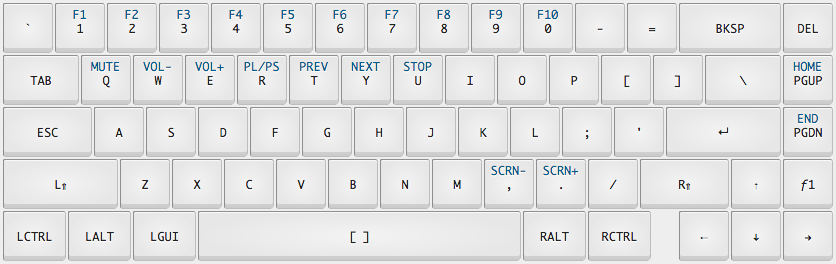
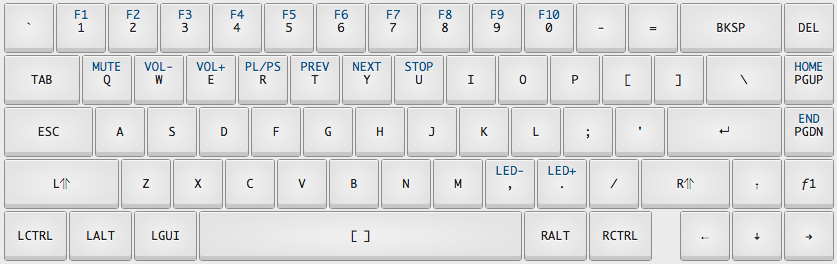
Use LED controls instead of screen brightness

diff --git a/aria/log/kll_defs.h b/aria/log/kll_defs.h
@@ -15,7 +15,7 @@
  */
 
 // This file was generated by the kll compiler, DO NOT EDIT.
-// Generation Date:    2016-12-28
+// Generation Date:    2017-01-05
 // KLL Backend:        kiibohd
 // KLL Git Rev:        1a078b2b940709bc3c429c952d2f0d842927394f
 // KLL Git Changes:    None
@@ -103,10 +103,7 @@ typedef enum CapabilityIndex {
 
 
 
-#define enableVirtualSerialPort_define 1
-#define enableKeyboard_define 1
-#define flashModeEnabled_define 0
-#define enableJoystick_define 0
+#define enableUSBLowPowerNegotiation_define 0
 #define ISSILedBrightness1_define  \
 0xFF, 0xFF, 0xFF, 0xFF, 0xFF, 0xFF, 0xFF, 0xFF, 0x00, 0x00, 0x00, 0x00, 0x00, 0x00, 0x00, 0x00, /* C1-1 -> C1-16 */ \
 0xFF, 0xFF, 0xFF, 0xFF, 0xFF, 0xFF, 0xFF, 0xFF, 0x00, 0x00, 0x00, 0x00, 0x00, 0x00, 0x00, 0x00, /* C2-1 -> C2-16 */ \
@@ -118,8 +115,10 @@ typedef enum CapabilityIndex {
 0xFF, 0xFF, 0xFF, 0xFF, 0xFF, 0xFF, 0xFF, 0xFF, 0x00, 0x00, 0x00, 0x00, 0x00, 0x00, 0x00, 0x00, /* C8-1 -> C8-16 */ \
 0xFF, 0xFF, 0xFF, 0xFF, 0xFF, 0xFF, 0xFF, 0xFF, 0x00, 0x00, 0x00, 0x00, 0x00, 0x00, 0x00, 0x00, /* C9-1 -> C9-16 */ \
 
-#define KeyboardLocale_define 0
-#define StateWordSize_define 8
+#define DebounceThrottleDiv_define 0
+#define DebounceDivThreshold_define 65535
+#define IndexWordSize_define 16
+#define enableJoystick_define 0
 #define ISSILedMask1_define  \
 	0xFF, 0x00, /* C1-1 -> C1-16 */ \
 	0xFF, 0x00, /* C2-1 -> C2-16 */ \
@@ -131,18 +130,19 @@ typedef enum CapabilityIndex {
 	0xFF, 0x00, /* C8-1 -> C8-16 */ \
 	0xFF, 0x00, /* C9-1 -> C9-16 */ \
 
-#define IndexWordSize_define 16
-#define enableDeviceRestartOnUSBTimeout_define 0
+#define enableKeyboard_define 1
 #define enableRawIO_define 0
-#define DebounceDivThreshold_define 65535
 #define enableMouse_define 1
+#define StateWordSize_define 8
+#define flashModeEnabled_define 0
+#define StrobeDelay_define 0
+#define KeyboardLocale_define 0
+#define enableUSBResume_define 1
+#define enableDeviceRestartOnUSBTimeout_define 0
 #define enableUSBSuspend_define 1
 #define USBProtocol_define 1
-#define enableUSBResume_define 1
 #define MinDebounceTime_define 5
-#define StrobeDelay_define 0
-#define enableUSBLowPowerNegotiation_define 0
-#define DebounceThrottleDiv_define 0
+#define enableVirtualSerialPort_define 1
 #define CapabilitiesNum_KLL 15
 #define ResultMacroNum_KLL 92
 #define TriggerMacroNum_KLL 92

diff --git a/aria/log/generatedKeymap.h b/aria/log/generatedKeymap.h
@@ -15,7 +15,7 @@
  */
 
 // This file was generated by the kll compiler, DO NOT EDIT.
-// Generation Date:    2016-12-28
+// Generation Date:    2017-01-05
 // KLL Backend:        kiibohd
 // KLL Git Rev:        1a078b2b940709bc3c429c952d2f0d842927394f
 // KLL Git Changes:    None
@@ -191,7 +191,7 @@ Guide_RM( 68 ) = { 1, 13, KEY_H, 0 };
 Guide_RM( 69 ) = { 1, 13, KEY_SEMICOLON, 0 };
 Guide_RM( 70 ) = { 1, 13, KEY_W, 0 };
 Guide_RM( 71 ) = { 1, 13, KEY_F4, 0 };
-Guide_RM( 72 ) = { 1, 6, 111, 0, 0 };
+Guide_RM( 72 ) = { 1, 0, 4, 15, 0, 0, 0 };
 Guide_RM( 73 ) = { 1, 6, 233, 0, 0 };
 Guide_RM( 74 ) = { 1, 6, 205, 0, 0 };
 Guide_RM( 75 ) = { 1, 13, KEY_F1, 0 };
@@ -206,7 +206,7 @@ Guide_RM( 83 ) = { 1, 13, KEY_F5, 0 };
 Guide_RM( 84 ) = { 1, 13, KEY_F9, 0 };
 Guide_RM( 85 ) = { 1, 13, KEY_F6, 0 };
 Guide_RM( 86 ) = { 1, 6, 182, 0, 0 };
-Guide_RM( 87 ) = { 1, 6, 112, 0, 0 };
+Guide_RM( 87 ) = { 1, 0, 3, 15, 0, 0, 0 };
 Guide_RM( 88 ) = { 1, 13, KEY_F2, 0 };
 Guide_RM( 89 ) = { 1, 6, 181, 0, 0 };
 Guide_RM( 90 ) = { 1, 13, KEY_F3, 0 };

diff --git a/aria/log/buildvars.h b/aria/log/buildvars.h
@@ -42,7 +42,7 @@
 #define CLI_CommitDate          "2016-10-10 23:15:13 -0700"
 #define CLI_CommitAuthor        "GitHub <noreply@github.com>"
 #define CLI_Modules             "Scan(WhiteFox) Macro(PartialMap) Output(pjrcUSB) Debug(full)"
-#define CLI_BuildDate           "2016-12-28 21:55:50 +0000"
+#define CLI_BuildDate           "2017-01-05 02:54:35 +0000"
 #define CLI_BuildOS             "Linux-4.1.5-x86_64-linode61"
 #define CLI_Arch                "arm"
 #define CLI_Chip                "mk20dx256vlh7"
